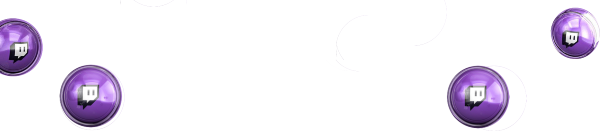
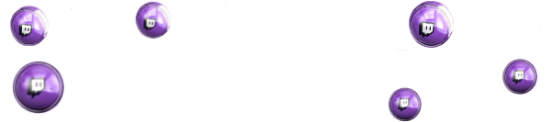
updated twitter bubble image

diff --git a/src/components/StreamingSection/StreamingSectionStyles.css b/src/components/StreamingSection/StreamingSectionStyles.css
@@ -12,9 +12,6 @@
   justify-content: center;
   height: 200px;
 }
-.twitchBubble {
-  width: 50%;
-}
 .Headline {
   position: relative;
   left: 30%;

diff --git a/src/components/HeroSection/HeroSectionStyles.css b/src/components/HeroSection/HeroSectionStyles.css
@@ -2,7 +2,7 @@
   flex-direction: row;
   display: flex;
   padding-top: 40px;
-  height: 280px;
+  height: 100px;
 }
 .left-hero {
   width: 50%;
